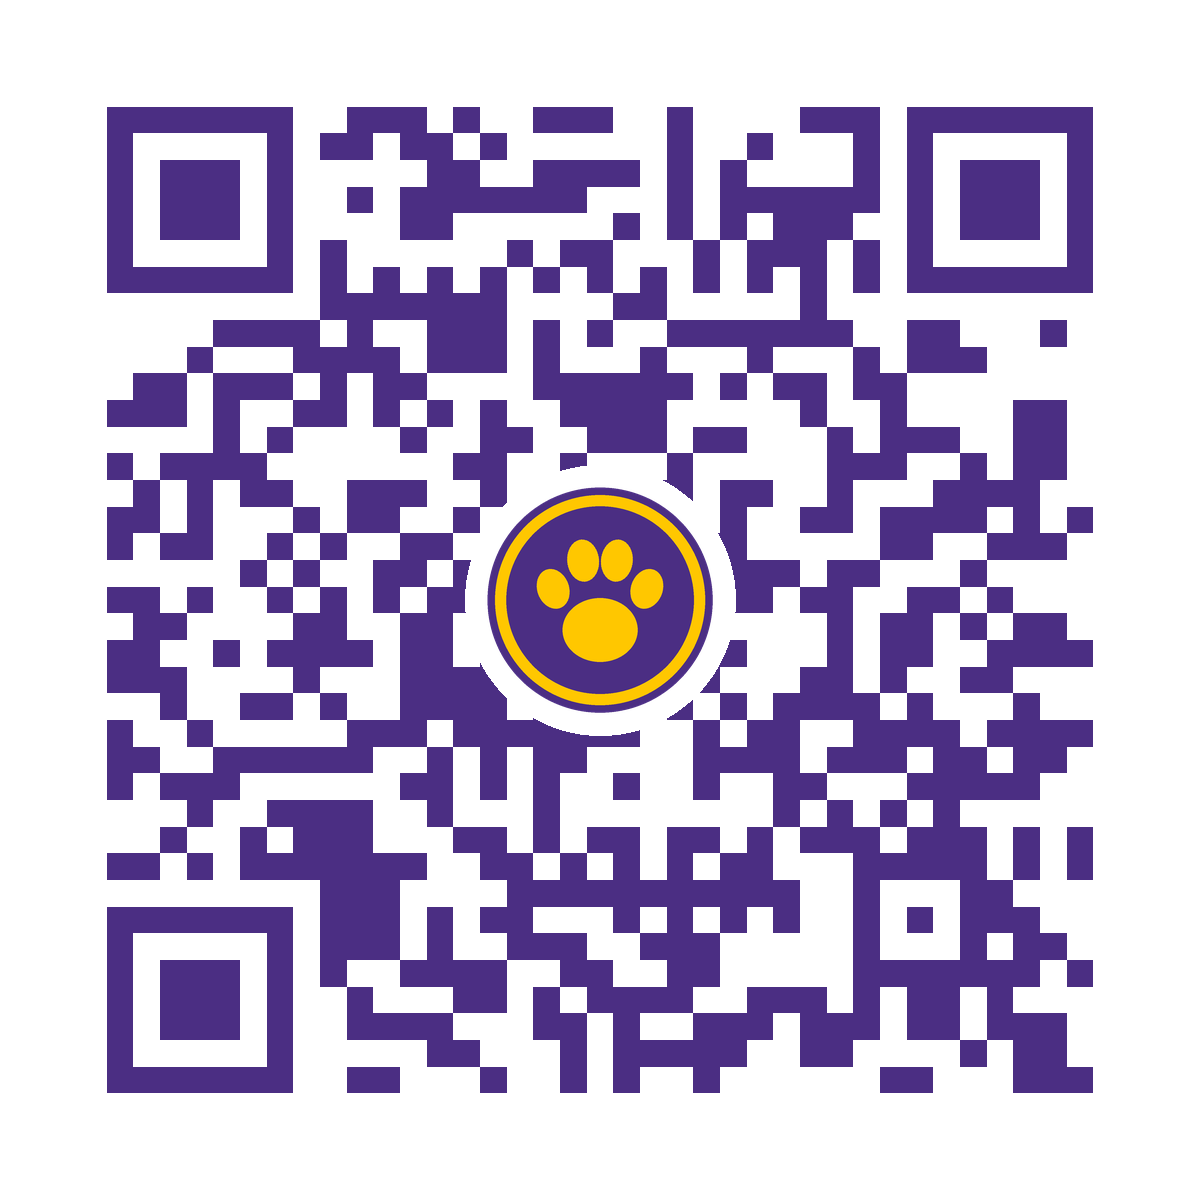
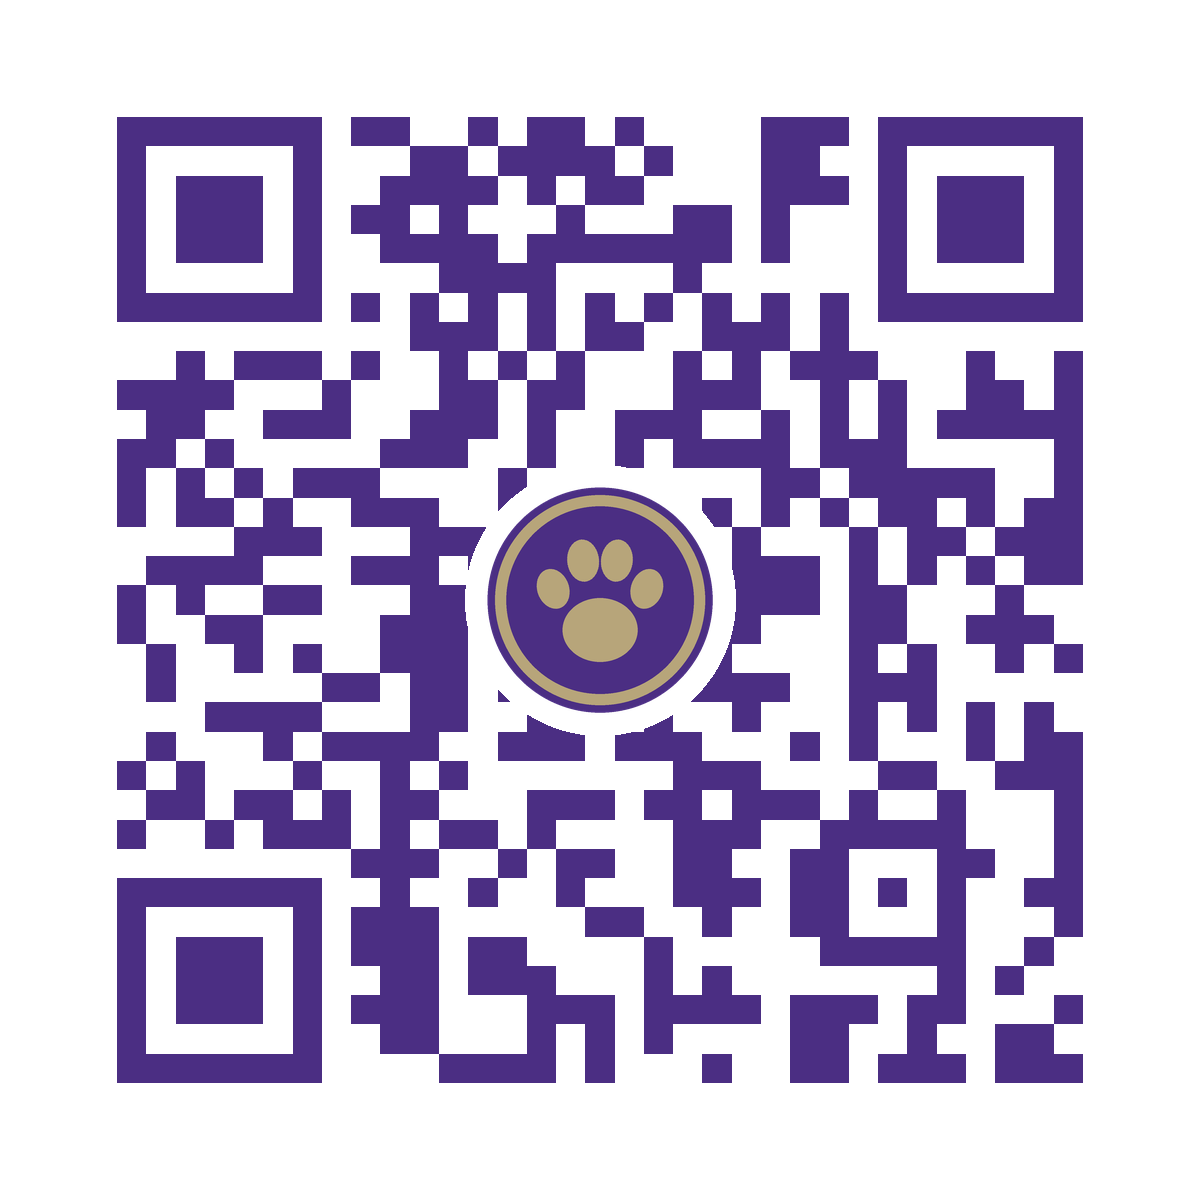
Use sportivecircle.com as the site's address
On Render the app now uses https://sportivecircle.com (not the onrender.com
address) for emails, share and invite links, QR codes, the canonical tag,
robots.txt and the sitemap. PUBLIC_URL still overrides it and is also set in
render.yaml. QR flyers remade for the new domain.

diff --git a/sportive/__init__.py b/sportive/__init__.py
@@ -14,6 +14,7 @@ from .photos import MAX_UPLOAD_MB
 from .timeutil import fmt_clock, fmt_relative, fmt_when, now_local, same_day, to_db
 
 DEV_SECRET_KEY = "dev-only-change-me"
+SITE_URL = "https://sportivecircle.com"  # the real address (Render also answers at *.onrender.com)
 
 # Where the browser may load things from. Scripts only come from our own files and the one map
 # library on cdnjs, so even if someone sneaks HTML into a name or message, it can't run code.
@@ -39,8 +40,9 @@ def _setting(name):
 
 def create_app(test_config=None):
     app = Flask(__name__, instance_relative_config=True)
-    # PUBLIC_URL wins; on Render, RENDER_EXTERNAL_URL (e.g. https://sportive-circle.onrender.com) is set for us.
-    public_url = os.environ.get("PUBLIC_URL") or os.environ.get("RENDER_EXTERNAL_URL") or "http://localhost:5050"
+    # PUBLIC_URL wins; on Render (which sets RENDER_EXTERNAL_URL) it's our own domain, never the onrender.com one.
+    public_url = (_setting("PUBLIC_URL") or (SITE_URL if os.environ.get("RENDER_EXTERNAL_URL") else None)
+                  or "http://localhost:5050")
     app.config.from_mapping(
         SECRET_KEY=os.environ.get("SECRET_KEY", DEV_SECRET_KEY),
         DATABASE=os.environ.get("DATABASE", os.path.join(app.instance_path, "sportive_circle.db")),

diff --git a/tests/test_app.py b/tests/test_app.py
@@ -2830,6 +2830,20 @@ def test_search_engines_and_link_previews(client, app):
     assert b"<loc>https://sportivecircle.com/clubs</loc>" in sitemap.data and b"/faq</loc>" in sitemap.data
 
 
+def test_public_address_is_our_domain_on_render(tmp_path, monkeypatch):
+    """Links in emails, shares and the canonical tag use sportivecircle.com, not the onrender.com address."""
+    def address():
+        return create_app({"TESTING": True, "DATABASE": str(tmp_path / "a.db")}).config["PUBLIC_URL"]
+
+    monkeypatch.delenv("PUBLIC_URL", raising=False)
+    monkeypatch.delenv("RENDER_EXTERNAL_URL", raising=False)
+    assert address() == "http://localhost:5050"
+    monkeypatch.setenv("RENDER_EXTERNAL_URL", "https://sportive-circle.onrender.com")
+    assert address() == "https://sportivecircle.com"
+    monkeypatch.setenv("PUBLIC_URL", " https://example.org \n")
+    assert address() == "https://example.org"
+
+
 def test_settings_page_is_separate_from_edit_profile(accounts, client, app):
     accounts.signup()
     me = _user_id(app, "dubs@uw.edu")

diff --git a/tools/make_qr.py b/tools/make_qr.py
@@ -18,7 +18,7 @@ import segno
 from PIL import Image, ImageDraw, ImageFont
 
 ROOT = os.path.dirname(os.path.dirname(os.path.abspath(__file__)))
-URL = sys.argv[1] if len(sys.argv) > 1 else "https://sportive-circle.onrender.com"
+URL = sys.argv[1] if len(sys.argv) > 1 else "https://sportivecircle.com"
 OUT = os.path.join(ROOT, "marketing")
 PURPLE, GOLD, WHITE = "#4b2e83", "#b7a57a", "#ffffff"  # UW Spirit Purple + Husky Gold
 

diff --git a/docs/deployment.md b/docs/deployment.md
@@ -54,7 +54,7 @@ scheduler does it:
 
 1. In Render, open the **sportive-circle** service → **Environment** → copy the value of **TASK_TOKEN**.
 2. Sign up at [cron-job.org](https://cron-job.org) (free) → **Create cronjob**:
-   - **URL:** `https://<your-app>.onrender.com/tasks/send-reminders`
+   - **URL:** `https://sportivecircle.com/tasks/send-reminders` (or your onrender.com address)
    - **Schedule:** every 10 minutes
    - **Advanced → Request method:** `POST`
    - **Advanced → Headers:** `X-Task-Token` = the TASK_TOKEN you copied
@@ -78,8 +78,9 @@ About $10-15 a year. The site keeps working at the onrender.com address the whol
    `sportivecircle.com` and a **CNAME** for `www` pointing to `sportive-circle.onrender.com`).
 3. **At the registrar → DNS**: delete the default "parking" records and add exactly what Render shows.
 4. Wait until Render says **Verified** (minutes to a few hours). Render adds the HTTPS certificate for free.
-5. **Render → Environment → `PUBLIC_URL`** = `https://sportivecircle.com` → Save. Emails, share buttons,
-   calendar files, club QR codes and search engines then all use the new address.
+5. Nothing to set: on Render the app already uses `https://sportivecircle.com` (the `PUBLIC_URL` in
+   `render.yaml`, and `SITE_URL` in `sportive/__init__.py`) for emails, share buttons, calendar files, club QR
+   codes and search engines. To use another address, set `PUBLIC_URL` in Render → Environment.
 6. Make new flyers: `.venv/bin/python tools/make_qr.py https://sportivecircle.com`.
 
 To show up on Google: [Google Search Console](https://search.google.com/search-console) → add the domain →
